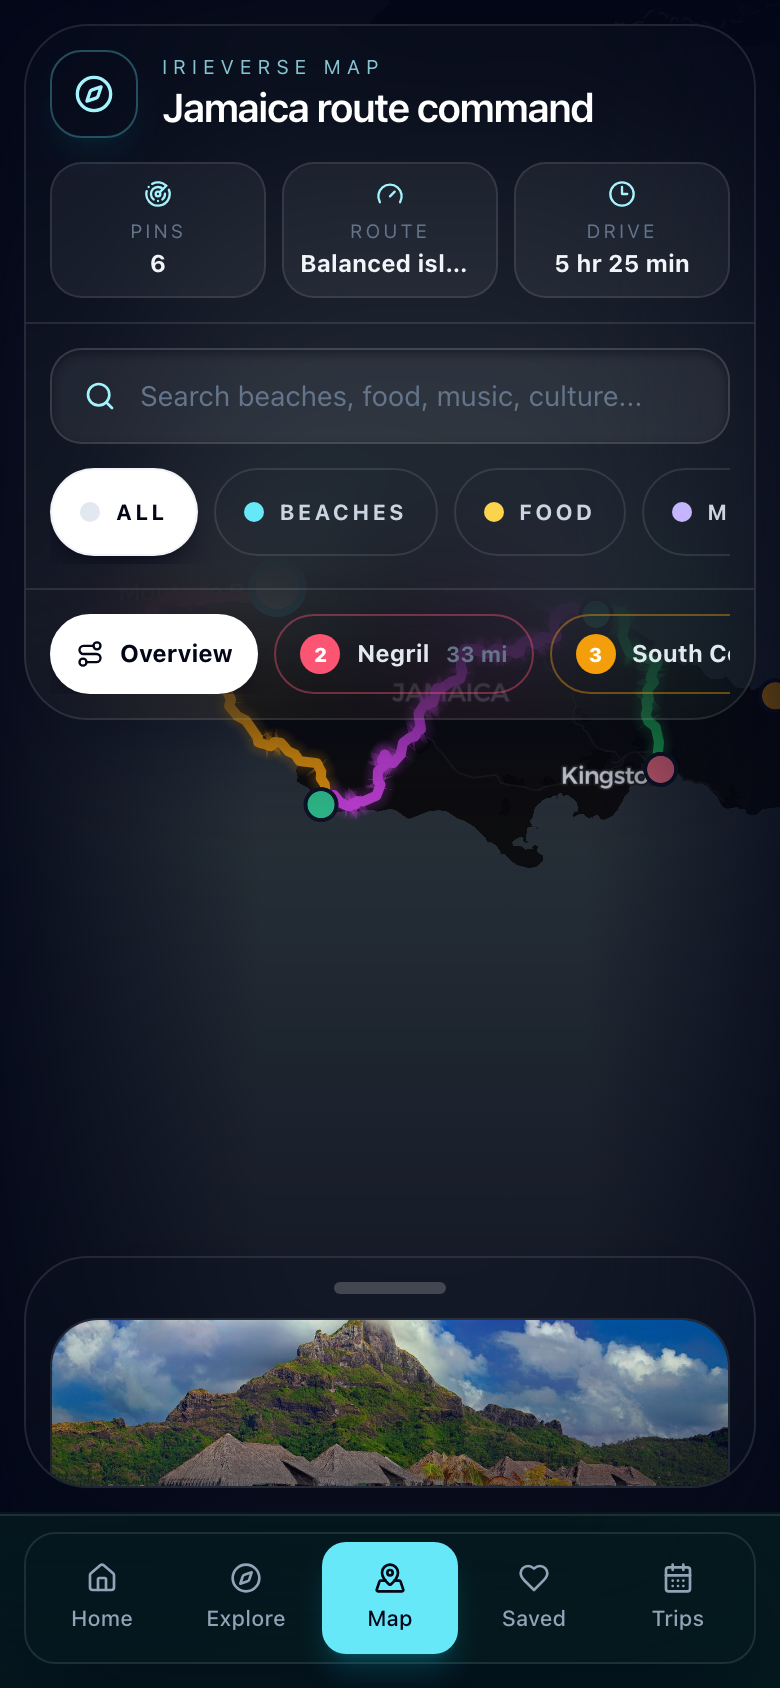
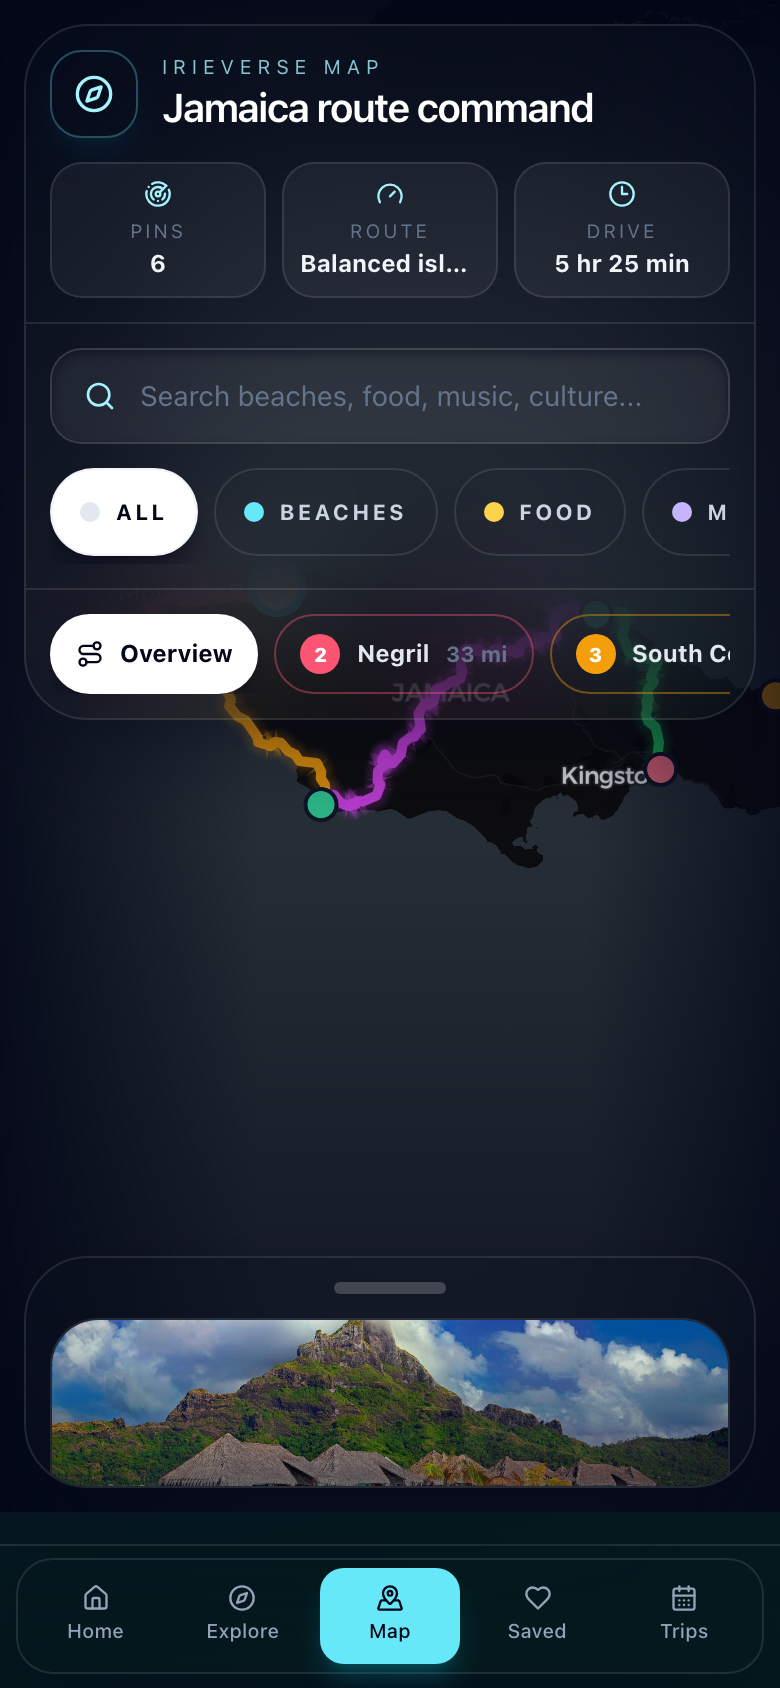
Update navigation QA coverage

Changed region(s): [[0.0308, 0.8934, 0.9538, 1.0], [0.9538, 0.9242, 0.9846, 0.9858]]

diff --git a/tests/production-qa.spec.js b/tests/production-qa.spec.js
@@ -42,8 +42,8 @@ test("production mobile flows, screenshots, and live integrations", async ({ pag
 
   await openTab(page, "map");
   await expect(page.getByText("IrieVerse Map")).toBeVisible();
-  await expect(page.getByTestId("desktop-header-nav")).toBeVisible();
-  await expect(page.getByTestId("mobile-bottom-nav")).toBeHidden();
+  await expect(page.getByTestId("mobile-bottom-nav")).toBeVisible();
+  await expect(page.getByTestId("desktop-header-nav")).toBeHidden();
   await page.locator("canvas").first().waitFor({ state: "visible", timeout: 15000 });
   await page.waitForTimeout(4500);
   await screenshot(page, "mobile-map.png");
@@ -100,6 +100,8 @@ test("production desktop map screenshot", async ({ browser }) => {
 
   await openTab(page, "map");
   await expect(page.getByText("IrieVerse Map")).toBeVisible();
+  await expect(page.getByTestId("desktop-header-nav")).toBeVisible();
+  await expect(page.getByTestId("mobile-bottom-nav")).toBeHidden();
   await page.locator("canvas").first().waitFor({ state: "visible", timeout: 15000 });
   await page.waitForTimeout(4500);
   await screenshot(page, "desktop-map.png");
@@ -112,7 +114,7 @@ async function openTab(page, tab) {
   const url = tab ? `${BASE_URL}/?tab=${tab}` : BASE_URL;
   await page.goto(url, { waitUntil: "domcontentloaded" });
   await page.waitForLoadState("networkidle", { timeout: 8000 }).catch(() => {});
-  await expect(page.getByLabel("Primary navigation")).toBeVisible();
+  await expectVisibleNavigation(page);
 }
 
 async function openSharedIdea(page) {
@@ -126,7 +128,19 @@ async function openSharedIdea(page) {
 
   await page.goto(`${BASE_URL}/?${params}`, { waitUntil: "domcontentloaded" });
   await page.waitForLoadState("networkidle", { timeout: 8000 }).catch(() => {});
-  await expect(page.getByLabel("Primary navigation")).toBeVisible();
+  await expectVisibleNavigation(page);
+}
+
+async function expectVisibleNavigation(page) {
+  const viewport = page.viewportSize();
+  if (viewport && viewport.width >= 768) {
+    await expect(page.getByTestId("desktop-header-nav")).toBeVisible();
+    await expect(page.getByTestId("mobile-bottom-nav")).toBeHidden();
+    return;
+  }
+
+  await expect(page.getByTestId("mobile-bottom-nav")).toBeVisible();
+  await expect(page.getByTestId("desktop-header-nav")).toBeHidden();
 }
 
 async function screenshot(page, filename) {
